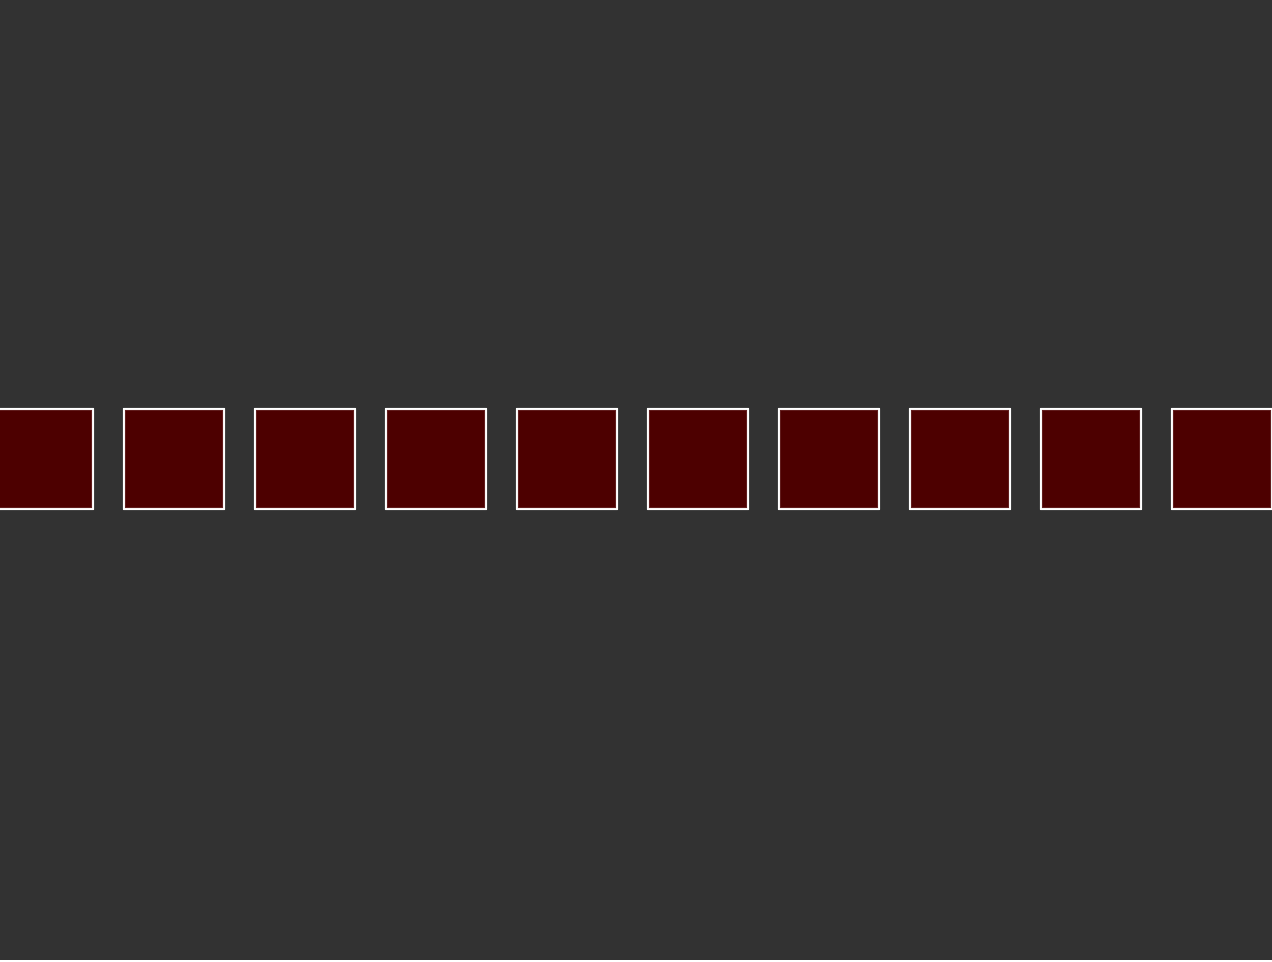
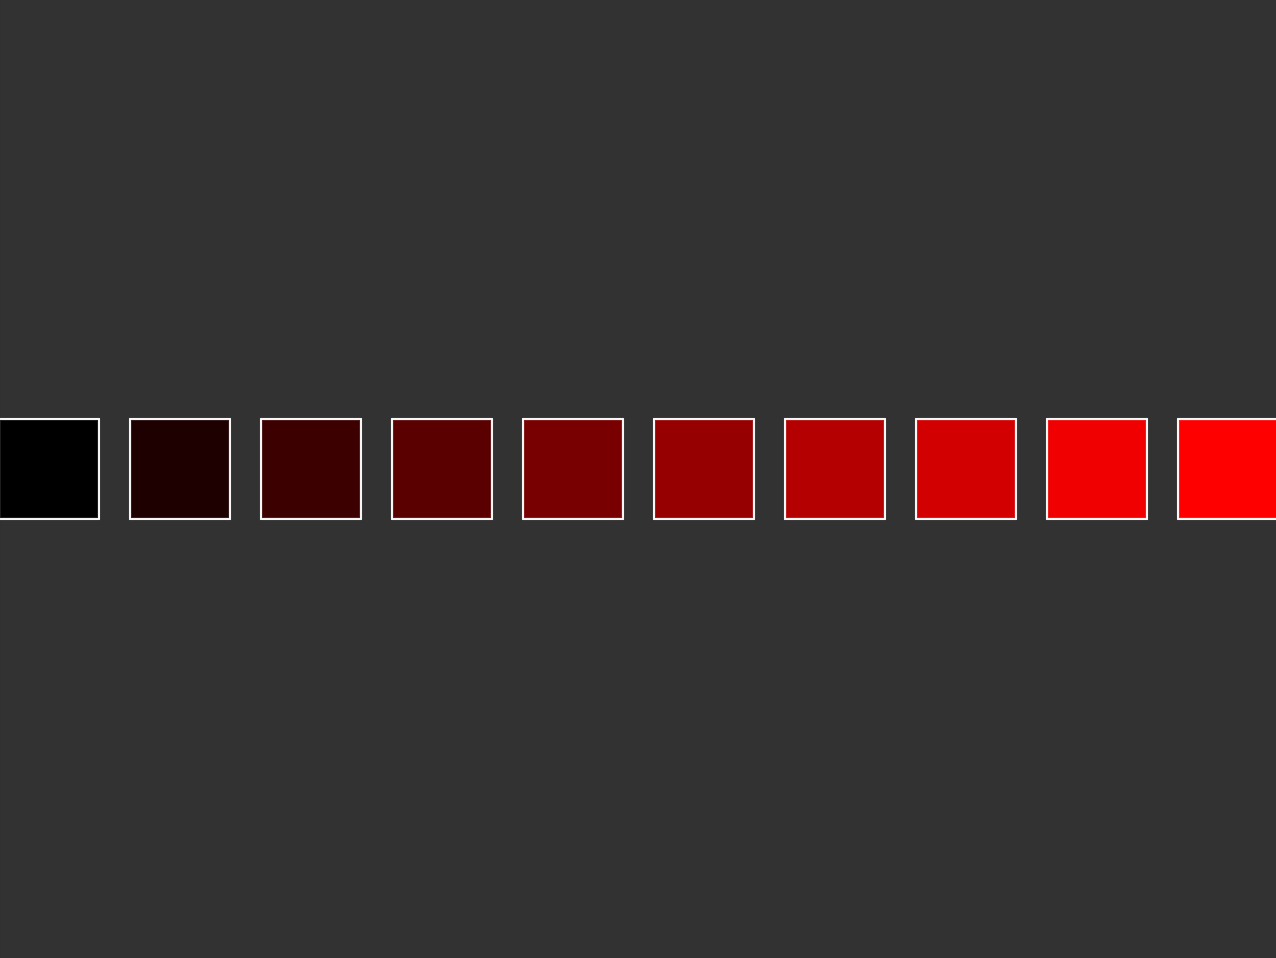
saved_1

Changed region(s): [[0.0, 0.4238, 1.0, 0.5449], [0.0, 0.999, 1.0, 1.0]]

diff --git a/challenge_1/sketch.js b/challenge_1/sketch.js
@@ -24,23 +24,20 @@
 //             // rect(458,201,50,50);
 
 // a simple p5 sketch that demonstrates for loops
+// a simple p5 sketch that demonstrates for loops
 
 function setup() {
 	createCanvas(640, 480);
+	stroke(255);
 }
+
 function draw() {
 	background(50, 50, 50);
-	colorMode(HSB,100)
-			for (var y = 0; y <4; y++) {
-	        stroke(0,0,100);
-					fill(0, 100, y*10);
-  		}
-	    for (var x = 0; x < 10; x++) {
-        	rect(x * 65.5, y+200 ,50, 50);
-				}
 
-	    	for (var x = 0; x < 10; x++) {
-			rect(x * 65.5, y+200 ,50, 50);
-		}
+	for (i=0; i<10; i++) {
+	    fill(i*30,0,0);
+	    rect(i * 65.5, 210 ,50, 50);
+	}
+	}
 
-}
+	
